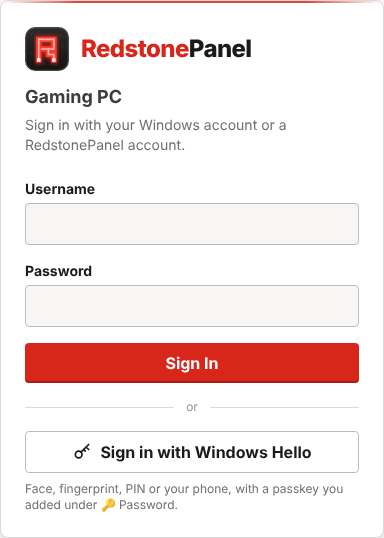
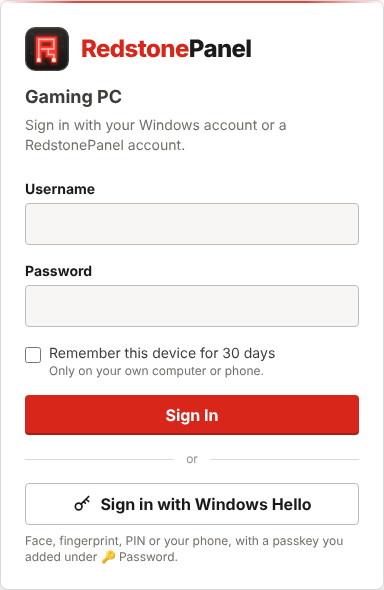
Merge branch 'feature/windows-1.24' into release/v1.24.0: Remember this device
Release notes, What's new, README, changelog and the manual's version table
mention it. Pictures retaken where the screen changed: the sign-in page
(sign-in, windows-hello), the Password dialog (ssh-keys) and the new
remembered-devices; passkeys retaken with them.

Claude-Session: https://claude.ai/code/session_01S6K3gvf98A19D8ttWvnG2W

diff --git a/release-notes/v1.24.0.md b/release-notes/v1.24.0.md
@@ -1,4 +1,4 @@
-RedstonePanel clusters now mix Linux and Windows: a Windows PC can be a cluster's master or one of its nodes, and servers and backups move between the two. Windows panels also get SFTP, Windows Hello sign-in and an easier first password, and Windows is no longer a preview.
+RedstonePanel clusters now mix Linux and Windows: a Windows PC can be a cluster's master or one of its nodes, and servers and backups move between the two. Windows panels also get SFTP, Windows Hello sign-in and an easier first password, and Windows is no longer a preview. Every panel can now remember your own computer or phone for 30 days.
 
 ## New
 
@@ -12,6 +12,8 @@ RedstonePanel clusters now mix Linux and Windows: a Windows PC can be a cluster'
 
 - **Sign in with Windows Hello** on a Windows panel. Add a passkey under **🔑 Password**, then click **Sign in with Windows Hello**: your face, fingerprint or Windows Hello PIN, or your phone (Windows shows a QR code to scan), with no user name. Only a public key is stored, and it counts as two-factor sign-in. Passkeys work at `localhost` or a host name over HTTPS. Linux panels keep Linux accounts, panel accounts and two-factor codes.
 
+- **Remember this device.** Tick it when you sign in on your own computer or phone and that browser stays signed in for 30 days, on Linux and Windows panels alike. **🔑 Password** lists your remembered devices; **Forget** signs one out at once, and a new password forgets them all.
+
 - **An easier first password on Windows.** The installer's **Finish** page opens the panel on a one-time page to choose the **admin** password. **RedstonePanel** in the Start menu opens the panel later, at the right address.
 
 - **`redstonepanel reset-password NAME`** sets a forgotten panel password from an administrator prompt (with `sudo` on Linux) and signs that account out everywhere.
@@ -24,6 +26,7 @@ See [Clusters](https://github.com/qrussell/redstonepanel/blob/main/docs/guide/RE
 
 ## Fixed
 
+- **Back up now on a running server** no longer fails when the server shortens one of its files while it is copied (seen on Windows Server 2025); the panel log names the file.
 - **A server moved away and back keeps its name**, numbered (`minecraft-survival-2`) when its old copy is still there, instead of taking the next free name.
 - **Start, stop and restart of a server on a node** no longer report an error while the node is still starting it: the master waits up to three minutes for the answer.
 
@@ -31,7 +34,7 @@ See [Clusters](https://github.com/qrussell/redstonepanel/blob/main/docs/guide/RE
 
 Nothing to do. On Windows, click **Update now** on the dashboard, or run `RedstonePanel-1.24.0-x64.msi` below. In a cluster, update the master and its nodes; a member on 1.23 can't join a mixed cluster.
 
-Tested: 1,179 unit tests, including passkeys checked with a test authenticator; the whole sign-in flow in a real browser; the Windows install and installer tests on Windows Server 2022 and 2025 (SFTP, a Windows master with an encrypted backup read back, archives with bad names refused, the first-password link); the Linux install and cluster tests on every supported system; and a real mixed cluster on a Windows PC with a Linux master, with Java and Bedrock moves both ways, backup copies both ways, a restore across and SFTP on the node.
+Tested: 1,192 unit tests, including passkeys checked with a test authenticator and remembered devices; the whole sign-in flow in a real browser; the Windows install and installer tests on Windows Server 2022 and 2025 (SFTP, a Windows master with an encrypted backup read back, archives with bad names refused, the first-password link); the Linux install and cluster tests on every supported system; and a real mixed cluster on a Windows PC with a Linux master, with Java and Bedrock moves both ways, backup copies both ways, a restore across and SFTP on the node.
 
 ## Installing on Windows
 

diff --git a/README.md b/README.md
@@ -109,7 +109,7 @@ The [user manual](docs/guide/README.md) walks through every feature with screens
 
 ## What's new in 1.24
 
-**Mixed Linux and Windows clusters**. A Windows PC can be a cluster's master or a node next to Linux machines, with servers and backup copies moving between them (Bedrock gets the new machine's own program, and a move onto Windows checks file names first). Windows gets SFTP, **Windows Hello** sign-in and an easier first password, and is no longer a preview. `redstonepanel reset-password` resets a forgotten panel password. See the [1.24.0 release notes](release-notes/v1.24.0.md).
+**Mixed Linux and Windows clusters**. A Windows PC can be a cluster's master or a node next to Linux machines, with servers and backup copies moving between them (Bedrock gets the new machine's own program, and a move onto Windows checks file names first). Windows gets SFTP, **Windows Hello** sign-in and an easier first password, and is no longer a preview. Any panel can **remember your device** for 30 days. `redstonepanel reset-password` resets a forgotten panel password. See the [1.24.0 release notes](release-notes/v1.24.0.md).
 
 ## What's new in 1.23
 

diff --git a/docs/guide/README.md b/docs/guide/README.md
@@ -51,6 +51,7 @@ command-line option, run `man redstonepanel`. This manual is also published as t
 
 | Version | What's new | Where |
 | --- | --- | --- |
+| 1.24.0 | **Mixed Linux and Windows clusters**, SFTP on Windows, **Windows Hello** passkeys (or a phone), an easier first password on Windows, and **Remember this device** for 30 days. | [Clusters](#18-clusters), [Windows Hello](#windows-hello-passkeys), [Remember this device](#remember-this-device) |
 | 1.23.0 | **🪟 Windows, the whole machine**: Bedrock, more loaders and modpacks, limits, off-site backups, **Update now** and Windows account sign-in. | [On Windows](#on-windows) |
 | 1.21.10 | **⌨ Terminal**: a shell on the machine in your browser, for admins, as a Linux account. | [Terminal](#terminal) |
 | 1.21.9 | **🔗 Join pages** can sit behind HAProxy or Cloudflare, on your own domain. | [Join pages through a proxy](#join-pages-through-a-proxy-haproxy-or-cloudflare-1219) |

diff --git a/docs/wiki/Whats-New.md b/docs/wiki/Whats-New.md
@@ -18,6 +18,8 @@ the dashboard.
   longer a preview.
 - Windows panels: **Sign in with Windows Hello** (face, fingerprint, PIN or your phone) once you add a
   passkey under **🔑 Password**, and the installer opens a page to **choose the admin password**.
+- **Remember this device** at sign-in keeps your own computer or phone signed in for 30 days;
+  forget one under **🔑 Password**.
 - `redstonepanel reset-password NAME` sets a forgotten panel password.
 
 [Release notes](../../release-notes/v1.24.0.md)
